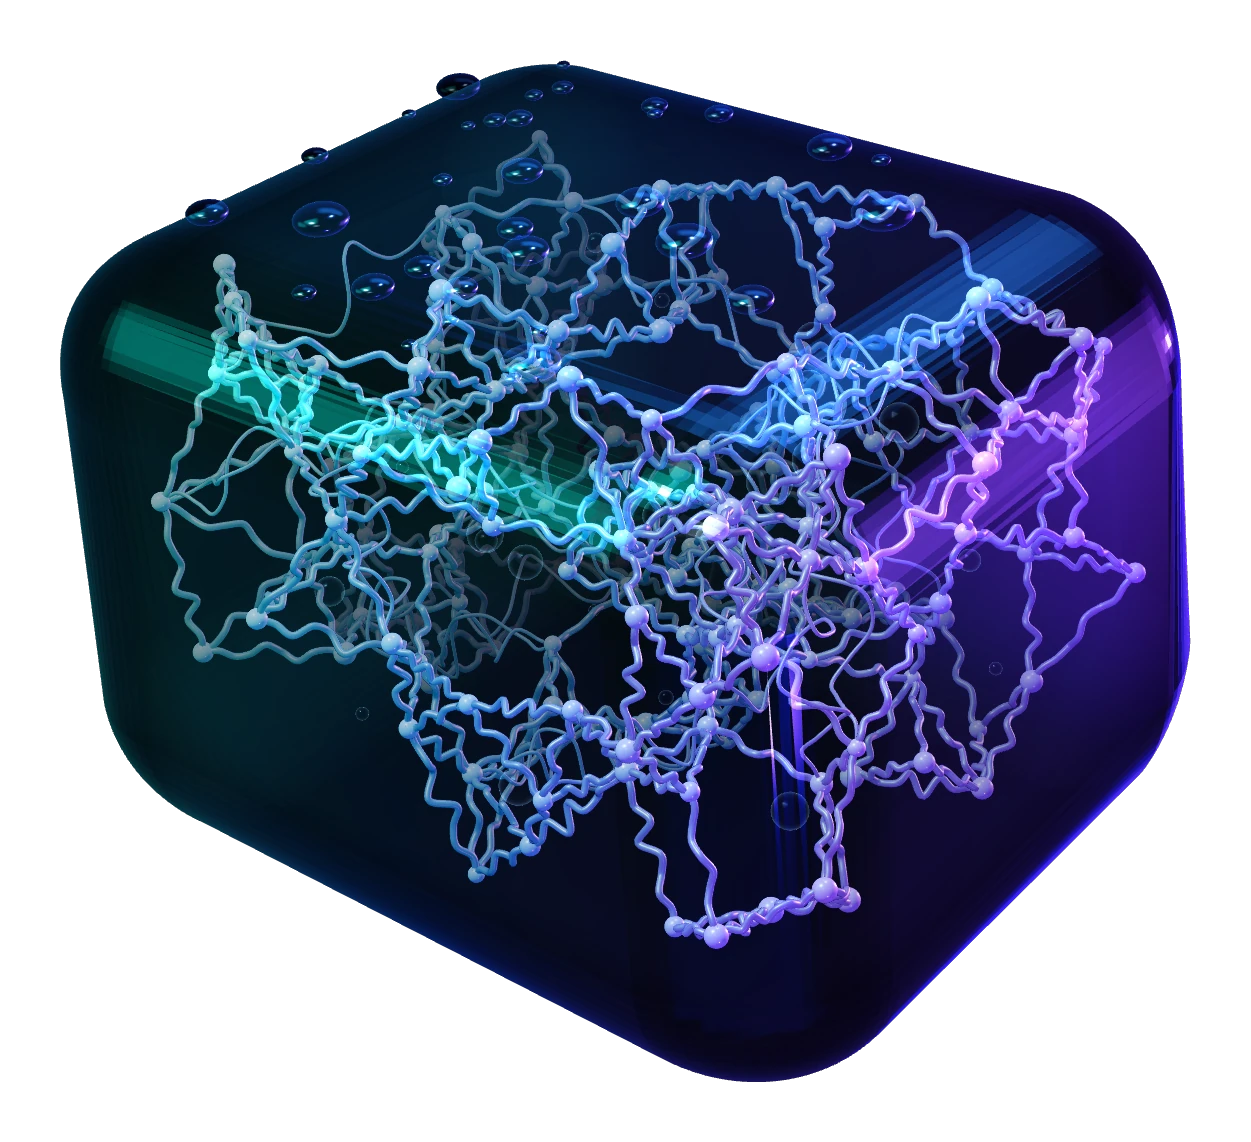
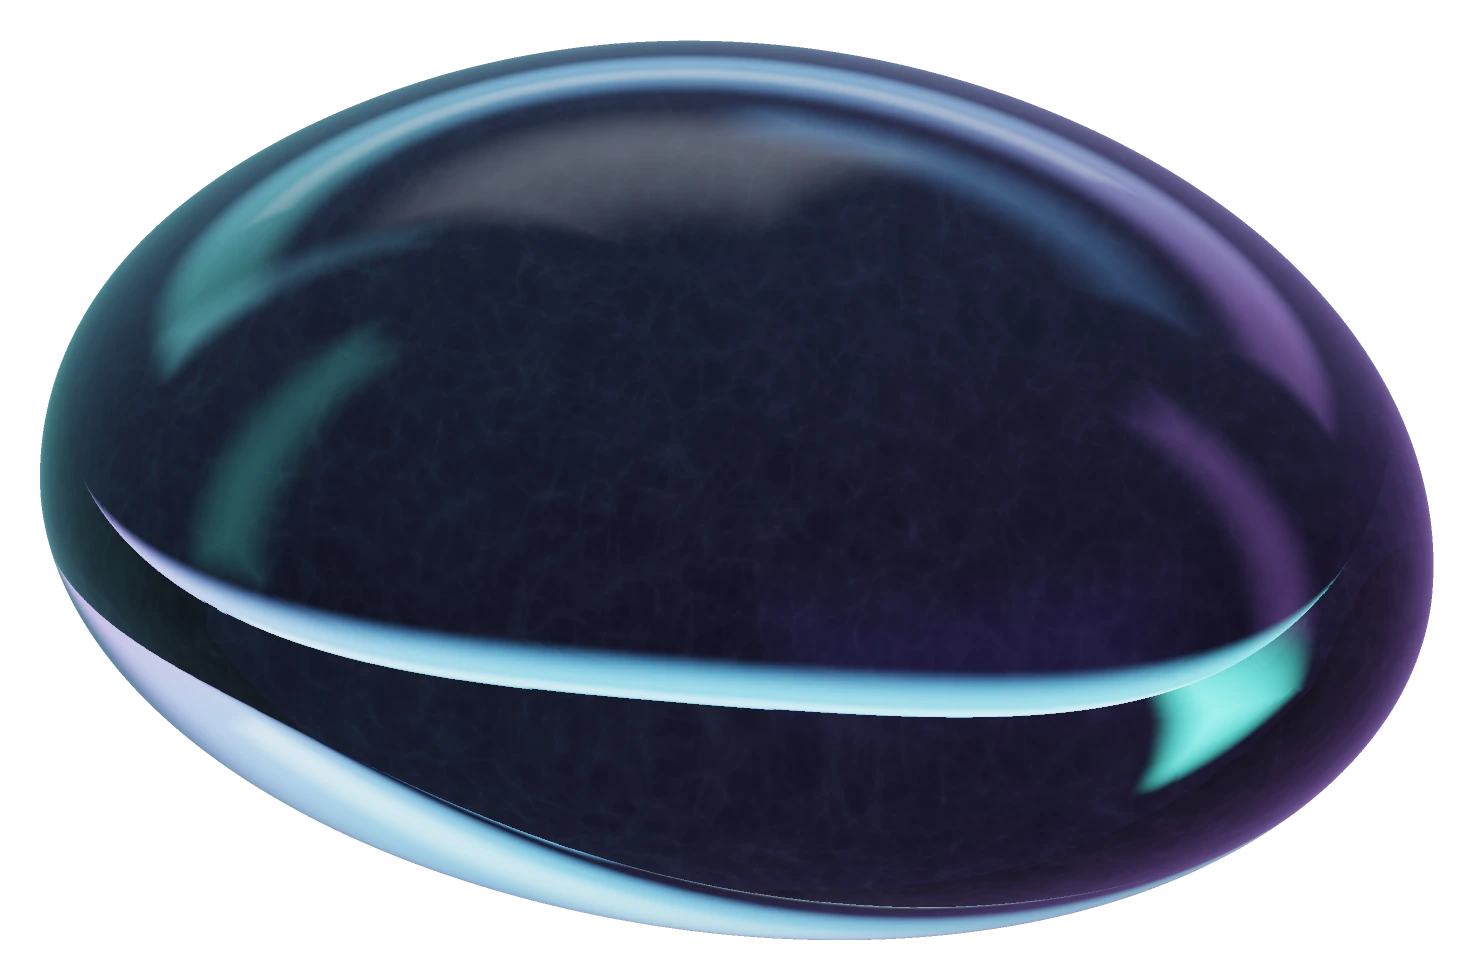
limaxbio: new hero — a water-clear tough-hydrogel bead, raymarched with real refraction
Replaces the gel cube with a neon wire network (client: off-putting). One
calm, glossy bead of clear hydrogel: refraction (ior 1.34), Fresnel
reflections of soft teal / blue / violet studio light, the polymer network
only a faint texture inside. render2.js -> hero.webp, real alpha.

Claude-Session: https://claude.ai/code/session_014388NGPVuZivwo56ryPjya

diff --git a/_kit/home/limaxbio/render2.js b/_kit/home/limaxbio/render2.js
@@ -1,0 +1,126 @@
+/* Offline render of the LiMax Biosciences hero, v2 (coordinator/client review: calm, premium, instantly their product).
+   Subject: a water-clear tough-adhesive hydrogel patch, a thin sheet with soft rounded edges, gently domed, one corner peeling
+   up as if just lifted off wet tissue. Raymarched in GLSL: physically based refraction through the gel (ior 1.34, two
+   interfaces plus one internal reflection), Schlick Fresnel reflections of a dark studio lit by a white softbox and long
+   teal / blue / violet strip lights (their brand gradient), faint water-like absorption, and a barely-there microscopic
+   polymer texture inside. No wires, no box. Real alpha (DJ/DP).
+   Run: node _kit/home/limaxbio/render2.js [out.png] [W] [H] [SS] */
+const {chromium}=require('playwright');const fs=require('fs');const path=require('path');
+const W=+(process.argv[3]||1800),H=+(process.argv[4]||1350),SS=+(process.argv[5]||2);
+const FS=`
+precision highp float;
+uniform vec2 R;uniform vec2 OFF;
+#define PI 3.14159265
+vec3 TEAL=vec3(.184,.710,.647),CYAN=vec3(.267,.639,.773),BLUE=vec3(.227,.482,.835),VIO=vec3(.541,.310,.839),INDI=vec3(.286,.192,.776);
+mat3 rotY(float a){float c=cos(a),s=sin(a);return mat3(c,0.,-s, 0.,1.,0., s,0.,c);}
+mat3 rotX(float a){float c=cos(a),s=sin(a);return mat3(1.,0.,0., 0.,c,s, 0.,-s,c);}
+mat3 rotZ(float a){float c=cos(a),s=sin(a);return mat3(c,s,0., -s,c,0., 0.,0.,1.);}
+/* the patch */
+const vec2 HS=vec2(1.32,.98);const float CR=.42,TH=.13,ER=.11;
+float disp(vec2 q){
+  float dome=-.10*(q.x*q.x/(HS.x*HS.x)+q.y*q.y/(HS.y*HS.y));           /* soft swell, edges a little lower */
+  float u=(q.x/HS.x*.66-q.y/HS.y*.75);                                  /* towards the peeling corner (+x,+z) */
+  float lift=smoothstep(.18,1.38,u);lift=lift*lift*.6;
+  float rip=.012*sin(q.x*5.1+q.y*3.3)+.008*sin(q.x*8.7-q.y*6.1);         /* the faint unevenness of a cast gel */
+  return dome+lift+rip;}
+float sdPatch(vec3 p){
+  vec2 q=p.xz;float y=p.y-disp(q);
+  /* the lifted corner curls: thin the slab a touch where it bends so it reads as a sheet */
+  vec2 d=abs(q)-(HS-CR);float r2=length(max(d,0.))+min(max(d.x,d.y),0.)-CR;
+  float h=TH-ER;vec2 w=vec2(r2+ER,abs(y)-h);
+  return length(max(w,0.))+min(max(w.x,w.y),0.)-ER;}
+float sdBead(vec3 p){
+  /* a swollen gel bead: oblate, a little fuller at the top and flatter underneath where it sags, with the faint, slow
+     unevenness of a soft solid */
+  float ry=p.y>0.?.72:.58;vec3 r=vec3(1.12,ry,1.0);
+  float w=.018*sin(p.x*2.3+p.z*1.7)+.012*sin(p.z*3.1-p.y*2.2+1.3)+.010*sin(p.x*3.7+p.y*2.9);
+  float k0=length(p/r),k1=length(p/(r*r));return k0*(k0-1.)/k1-w;}
+mat3 M;  /* world -> bead */
+float map(vec3 p){return sdBead(M*p)*.8;}vec3 nrm(vec3 p){vec2 e=vec2(.0015,0.);return normalize(vec3(map(p+e.xyy)-map(p-e.xyy),map(p+e.yxy)-map(p-e.yxy),map(p+e.yyx)-map(p-e.yyx)));}
+/* studio: near-black room, a broad soft white box above, long strip lights in the brand colours */
+float box2(vec2 p,vec2 c,vec2 h,float s){vec2 d=abs(p-c)-h;float o=length(max(d,0.))+min(max(d.x,d.y),0.);return 1.-smoothstep(-s,s,o);}
+vec3 env(vec3 d){
+  vec3 c=vec3(.006,.004,.016);
+  float az=atan(d.x,-d.z),el=asin(clamp(d.y,-1.,1.));
+  c+=vec3(.92,.96,1.)*1.6*box2(vec2(az,el),vec2(-.25,1.05),vec2(.55,.22),.16);              /* overhead softbox */
+  c+=mix(mix(TEAL,BLUE,smoothstep(-.9,0.,az)),VIO,smoothstep(0.,.9,az))*1.7*box2(vec2(az,el),vec2(0.,.42),vec2(1.0,.12),.07)+vec3(.9,.95,1.)*.55*box2(vec2(az,el),vec2(-.1,.44),vec2(.5,.035),.03);  /* broad graded softbox ahead: the sweep across the top face */
+  c+=TEAL*3.2*box2(vec2(az,el),vec2(-1.55,.35),vec2(.10,.42),.10);                           /* teal strip, left */
+  c+=CYAN*1.6*box2(vec2(az,el),vec2(-.95,.62),vec2(.06,.30),.08);
+  c+=BLUE*2.2*box2(vec2(az,el),vec2(.55,.78),vec2(.45,.07),.10);                             /* blue strip, overhead right */
+  c+=VIO*3.4*box2(vec2(az,el),vec2(1.62,.28),vec2(.10,.45),.10);                             /* violet strip, right */
+  c+=INDI*1.2*box2(vec2(az,el),vec2(2.6,-.05),vec2(.5,.25),.25);                             /* indigo bounce behind */
+  c+=mix(TEAL,VIO,smoothstep(-1.2,1.2,az))*.02*smoothstep(.2,-.4,el);                        /* faint coloured floor bounce */
+  return c;}
+float h3(vec3 p){p=fract(p*.3183099+.1);p*=17.;return fract(p.x*p.y*p.z*(p.x+p.y+p.z));}
+float vn(vec3 x){vec3 i=floor(x),f=fract(x);f=f*f*(3.-2.*f);
+  return mix(mix(mix(h3(i),h3(i+vec3(1,0,0)),f.x),mix(h3(i+vec3(0,1,0)),h3(i+vec3(1,1,0)),f.x),f.y),
+             mix(mix(h3(i+vec3(0,0,1)),h3(i+vec3(1,0,1)),f.x),mix(h3(i+vec3(0,1,1)),h3(i+vec3(1,1,1)),f.x),f.y),f.z);}
+/* barely visible polymer texture: thin ridges of 3D noise, only inside the gel */
+float web(vec3 p){float n=vn(p*16.)*.65+vn(p*27.+3.1)*.35;float r=1.-abs(2.*n-1.);return pow(r,22.);}
+float fres(float c,float f0){return f0+(1.-f0)*pow(1.-c,5.);}
+vec3 aces(vec3 x){return clamp((x*(2.51*x+.03))/(x*(2.43*x+.59)+.14),0.,1.);}
+vec4 shade(vec2 frag){
+  vec2 uv=(frag-.5*R)/R.y;
+  vec3 ro=vec3(0.,1.25,5.6),ta=vec3(0.,.02,0.);vec3 ww=normalize(ta-ro),uu=normalize(cross(ww,vec3(0,1,0))),vv=cross(uu,ww);
+  vec3 rd=normalize(uv.x*uu+uv.y*vv+2.4*ww);
+  float t=0.,d;bool hit=false;
+  for(int i=0;i<260;i++){d=map(ro+rd*t);if(d<.0004){hit=true;break;}t+=d;if(t>14.)break;}
+  if(!hit)return vec4(0.);
+  vec3 p=ro+rd*t,n=nrm(p);float ci=clamp(dot(-rd,n),0.,1.);
+  float F=fres(ci,.022);
+  vec3 col=env(reflect(rd,n))*F;
+  /* into the gel */
+  vec3 r1=refract(rd,n,1./1.34);vec3 q=p-n*.004;float tl=0.;vec3 tex=vec3(0.);
+  float path=0.;
+  for(int bounce=0;bounce<2;bounce++){
+    float s=.002;for(int i=0;i<140;i++){float dd=-map(q+r1*s);if(dd<.0004)break;s+=max(dd,.0015);if(s>4.)break;}
+    /* texture along the segment */
+    for(int k=0;k<14;k++){vec3 x=M*(q+r1*s*(float(k)+.5)/14.);float wv=web(x);tex+=mix(TEAL,VIO,smoothstep(-1.2,1.2,x.x))*wv*s/14.;}
+    path+=s;q=q+r1*s;vec3 n2=-nrm(q);
+    vec3 r2=refract(r1,n2,1.34);
+    if(dot(r2,r2)>.0){float c2=clamp(dot(r1,-n2),0.,1.);float F2=fres(c2,.022);
+      vec3 tr=exp(-path*vec3(.30,.10,.12));                 /* water-clear, a hint of cyan absorption */
+      col+=(1.-F)*(1.-F2)*tr*env(r2);
+      r1=reflect(r1,n2);q=q+n2*.003;col*=1.;  /* keep the internally reflected part for one more pass */
+      col+=0.*F2;
+      if(bounce==0){/* weight of the internal reflection */ }
+      break;}
+    r1=reflect(r1,n2);q=q+n2*.003;           /* total internal reflection: keep travelling inside */
+  }
+  col+=tex*.035;
+  /* soft rim light along the silhouette in the gradient, as light caught in the edge */
+  float rim=pow(1.-ci,5.);vec3 rimc=mix(TEAL,VIO,smoothstep(-1.6,1.6,(M*p).x*1.1+(M*p).z*.4));
+  col+=rimc*rim*.30;
+  /* a body tint so the clear gel reads as a volume, not a hole */
+  col+=mix(CYAN,VIO,smoothstep(-1.4,1.4,(M*p).x))*.004*(1.+path);
+  return vec4(col,1.);}
+void main(){
+  M=rotZ(.08)*rotX(-.06)*rotY(.5);
+  vec4 acc=vec4(0.);float n=float(${SS});
+  for(int j=0;j<${SS};j++)for(int i=0;i<${SS};i++){
+    vec4 s=shade(gl_FragCoord.xy+OFF+(vec2(float(i),float(j))+.5)/n-.5);acc+=vec4(s.rgb*s.a,s.a);}
+  acc/=n*n;
+  vec3 c=acc.a>0.?acc.rgb/acc.a:vec3(0.);
+  c=pow(aces(c*1.05),vec3(1./2.2));
+  gl_FragColor=vec4(c,acc.a);}
+`;
+const PAGE=`<!doctype html><html><body style="margin:0;background:transparent"><canvas id="c" width="${W}" height="${H}"></canvas><script>
+const cv=document.getElementById('c');const gl=cv.getContext('webgl',{preserveDrawingBuffer:true,premultipliedAlpha:false,alpha:true,antialias:false});
+function sh(t,s){const o=gl.createShader(t);gl.shaderSource(o,s);gl.compileShader(o);if(!gl.getShaderParameter(o,gl.COMPILE_STATUS))throw Error(gl.getShaderInfoLog(o));return o}
+const pr=gl.createProgram();gl.attachShader(pr,sh(gl.VERTEX_SHADER,'attribute vec2 a;void main(){gl_Position=vec4(a,0.,1.);}'));
+gl.attachShader(pr,sh(gl.FRAGMENT_SHADER,${JSON.stringify(FS)}));gl.linkProgram(pr);if(!gl.getProgramParameter(pr,gl.LINK_STATUS))throw Error(gl.getProgramInfoLog(pr));gl.useProgram(pr);
+const b=gl.createBuffer();gl.bindBuffer(gl.ARRAY_BUFFER,b);gl.bufferData(gl.ARRAY_BUFFER,new Float32Array([-1,-1,1,-1,-1,1,1,1]),gl.STATIC_DRAW);
+const al=gl.getAttribLocation(pr,'a');gl.enableVertexAttribArray(al);gl.vertexAttribPointer(al,2,gl.FLOAT,false,0,0);
+gl.uniform2f(gl.getUniformLocation(pr,'R'),${W},${H});gl.uniform2f(gl.getUniformLocation(pr,'OFF'),0,0);
+gl.clearColor(0,0,0,0);gl.clear(gl.COLOR_BUFFER_BIT);gl.enable(gl.SCISSOR_TEST);
+const T=120;let y=0;(function tile(){if(y>=${H}){window.__done=cv.toDataURL('image/png');return}gl.scissor(0,y,${W},T);gl.drawArrays(gl.TRIANGLE_STRIP,0,4);gl.finish();y+=T;setTimeout(tile,0)})();
+</script></body></html>`;
+(async()=>{
+const b=await chromium.launch({args:['--use-gl=angle','--use-angle=swiftshader','--enable-unsafe-swiftshader','--ignore-gpu-blocklist','--disable-gpu-watchdog']});
+const p=await b.newPage({viewport:{width:800,height:600}});
+p.on('console',m=>console.log('page:',m.text()));p.on('pageerror',e=>console.log('err',e.message));
+await p.setContent(PAGE);
+await p.waitForFunction(()=>window.__done,null,{timeout:1800000,polling:1000});
+const out=process.argv[2]||path.join(__dirname,'render.png');
+fs.writeFileSync(out,Buffer.from((await p.evaluate(()=>window.__done)).split(',')[1],'base64'));
+console.log('wrote',out);await b.close();})();

diff --git a/_kit/src/limaxbio.src.html b/_kit/src/limaxbio.src.html
@@ -1052,7 +1052,7 @@ function vHome(){
    '<i class="hrule" aria-hidden="true" data-r></i>'+
    '<div class="hero-foot"><p class="s" data-r>Tough, slug-inspired hydrogels that bond to wet, moving tissue in seconds, inside or outside the body: to seal leaks, heal tissues and deliver drugs.</p>'+
    '<div class="act" data-r><a class="btn solid" href="#/technology">Our technology '+ARR+'</a><a class="btn" href="#/contact">Contact us</a></div></div>'+
-   '<p class="lab hcap" data-r>A swollen hydrogel: a cross-linked polymer network holding water, rendered.</p>'+
+   '<p class="lab hcap" data-r>A water-clear bead of tough hydrogel, rendered.</p>'+
   '</section>'+
 
   '<section class="sec mani dark" id="about" data-theme="dark"><div class="wrap">'+
@@ -1156,8 +1156,9 @@ var MOBILE=function(){return innerWidth<861};
 function unmask(s){if(!s)return;(s.masks||[]).forEach(function(m){m.style.overflow="visible";m.style.clipPath="none"})}
 
 
-/*<R:field>*//* ================= HERO FIELD: a crafted render of the real material (HOME_BRIEF update option c): a swollen hydrogel block, its
-   cross-linked polymer network holding water, lit in LiMax's teal -> blue -> violet (render.js -> hero.webp, real alpha, DJ/DP). Centred in the open area right of the copy (~70% width, DO), ink scrim only
+/*<R:field>*//* ================= HERO FIELD: a crafted render of the real material (HOME_BRIEF update option c): a single water-clear bead of
+   tough hydrogel, raymarched with real refraction and Fresnel reflections of soft teal / blue / violet studio light, its polymer
+   network only a faint texture inside (render2.js -> hero.webp, real alpha, DJ/DP). Centred in the open area right of the copy (~70% width, DO), ink scrim only
    behind the text (DI); slow drift, no pointer response (CZ). On phones it sits in the top band and fades into the ink. ================= */
 var field=(function(){
   var cv=$("#field"),c=cv.getContext("2d"),dpr=1,w=0,h=0,running=false,raf=0,t0=performance.now(),shown=false;

diff --git a/limaxbio/index.html b/limaxbio/index.html
@@ -1620,7 +1620,7 @@ function vHome(){
    '<i class="hrule" aria-hidden="true" data-r></i>'+
    '<div class="hero-foot"><p class="s" data-r>Tough, slug-inspired hydrogels that bond to wet, moving tissue in seconds, inside or outside the body: to seal leaks, heal tissues and deliver drugs.</p>'+
    '<div class="act" data-r><a class="btn solid" href="#/technology">Our technology '+ARR+'</a><a class="btn" href="#/contact">Contact us</a></div></div>'+
-   '<p class="lab hcap" data-r>A swollen hydrogel: a cross-linked polymer network holding water, rendered.</p>'+
+   '<p class="lab hcap" data-r>A water-clear bead of tough hydrogel, rendered.</p>'+
   '</section>'+
 
   '<section class="sec mani dark" id="about" data-theme="dark"><div class="wrap">'+
@@ -1724,8 +1724,9 @@ var MOBILE=function(){return innerWidth<861};
 function unmask(s){if(!s)return;(s.masks||[]).forEach(function(m){m.style.overflow="visible";m.style.clipPath="none"})}
 
 
-/*<R:field>*//* ================= HERO FIELD: a crafted render of the real material (HOME_BRIEF update option c): a swollen hydrogel block, its
-   cross-linked polymer network holding water, lit in LiMax's teal -> blue -> violet (render.js -> hero.webp, real alpha, DJ/DP). Centred in the open area right of the copy (~70% width, DO), ink scrim only
+/*<R:field>*//* ================= HERO FIELD: a crafted render of the real material (HOME_BRIEF update option c): a single water-clear bead of
+   tough hydrogel, raymarched with real refraction and Fresnel reflections of soft teal / blue / violet studio light, its polymer
+   network only a faint texture inside (render2.js -> hero.webp, real alpha, DJ/DP). Centred in the open area right of the copy (~70% width, DO), ink scrim only
    behind the text (DI); slow drift, no pointer response (CZ). On phones it sits in the top band and fades into the ink. ================= */
 var field=(function(){
   var cv=$("#field"),c=cv.getContext("2d"),dpr=1,w=0,h=0,running=false,raf=0,t0=performance.now(),shown=false;

diff --git a/_kit/home/limaxbio/field.js b/_kit/home/limaxbio/field.js
@@ -1,5 +1,6 @@
-/* ================= HERO FIELD: a crafted render of the real material (HOME_BRIEF update option c): a swollen hydrogel block, its
-   cross-linked polymer network holding water, lit in LiMax's teal -> blue -> violet (render.js -> hero.webp, real alpha, DJ/DP). Centred in the open area right of the copy (~70% width, DO), ink scrim only
+/* ================= HERO FIELD: a crafted render of the real material (HOME_BRIEF update option c): a single water-clear bead of
+   tough hydrogel, raymarched with real refraction and Fresnel reflections of soft teal / blue / violet studio light, its polymer
+   network only a faint texture inside (render2.js -> hero.webp, real alpha, DJ/DP). Centred in the open area right of the copy (~70% width, DO), ink scrim only
    behind the text (DI); slow drift, no pointer response (CZ). On phones it sits in the top band and fades into the ink. ================= */
 var field=(function(){
   var cv=$("#field"),c=cv.getContext("2d"),dpr=1,w=0,h=0,running=false,raf=0,t0=performance.now(),shown=false;

diff --git a/_kit/home/limaxbio/views.js b/_kit/home/limaxbio/views.js
@@ -18,7 +18,7 @@ function vHome(){
    '<i class="hrule" aria-hidden="true" data-r></i>'+
    '<div class="hero-foot"><p class="s" data-r>Tough, slug-inspired hydrogels that bond to wet, moving tissue in seconds, inside or outside the body: to seal leaks, heal tissues and deliver drugs.</p>'+
    '<div class="act" data-r><a class="btn solid" href="#/technology">Our technology '+ARR+'</a><a class="btn" href="#/contact">Contact us</a></div></div>'+
-   '<p class="lab hcap" data-r>A swollen hydrogel: a cross-linked polymer network holding water, rendered.</p>'+
+   '<p class="lab hcap" data-r>A water-clear bead of tough hydrogel, rendered.</p>'+
   '</section>'+
 
   '<section class="sec mani dark" id="about" data-theme="dark"><div class="wrap">'+
